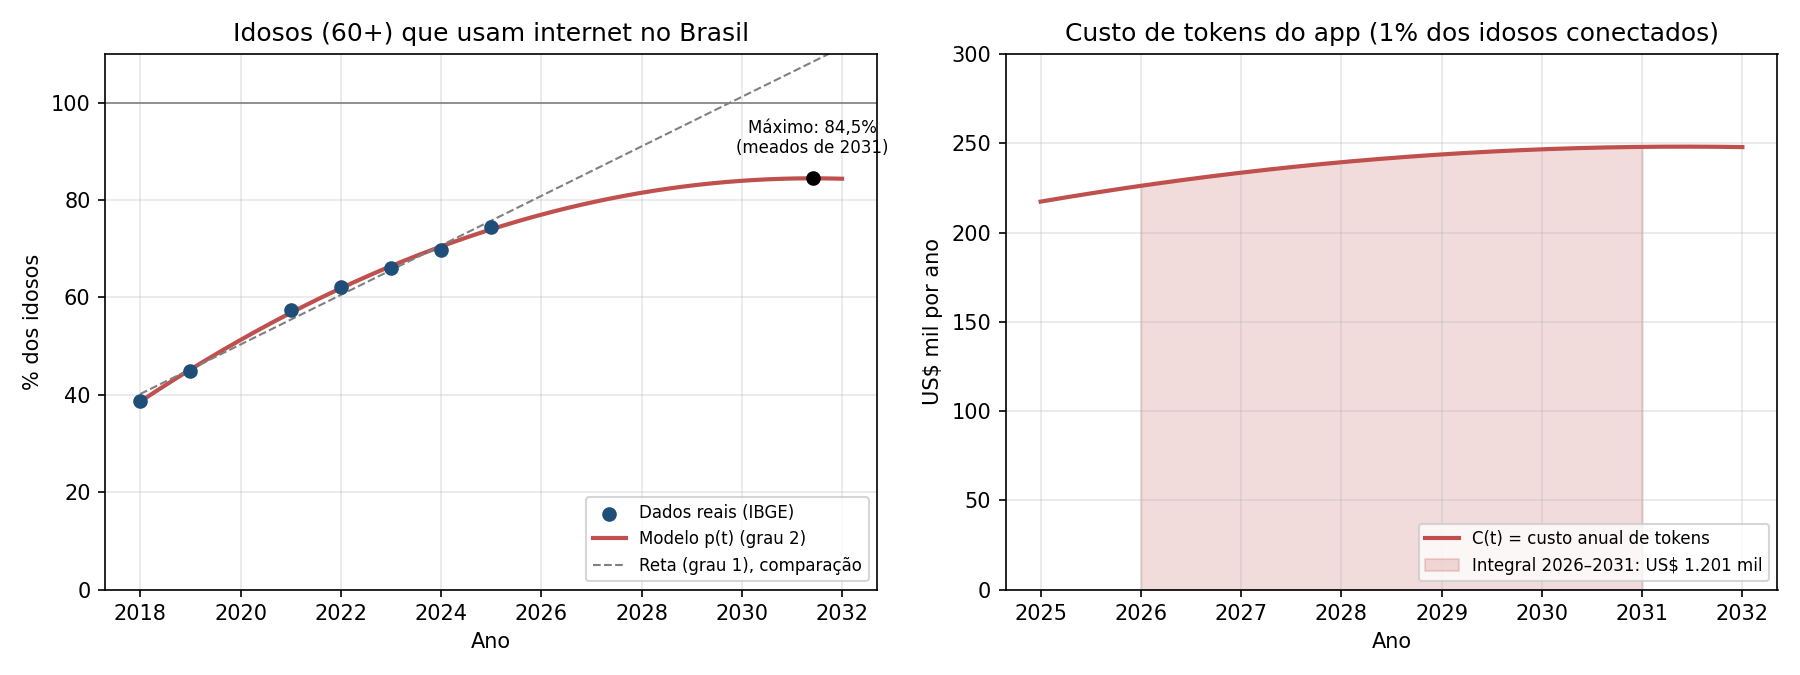
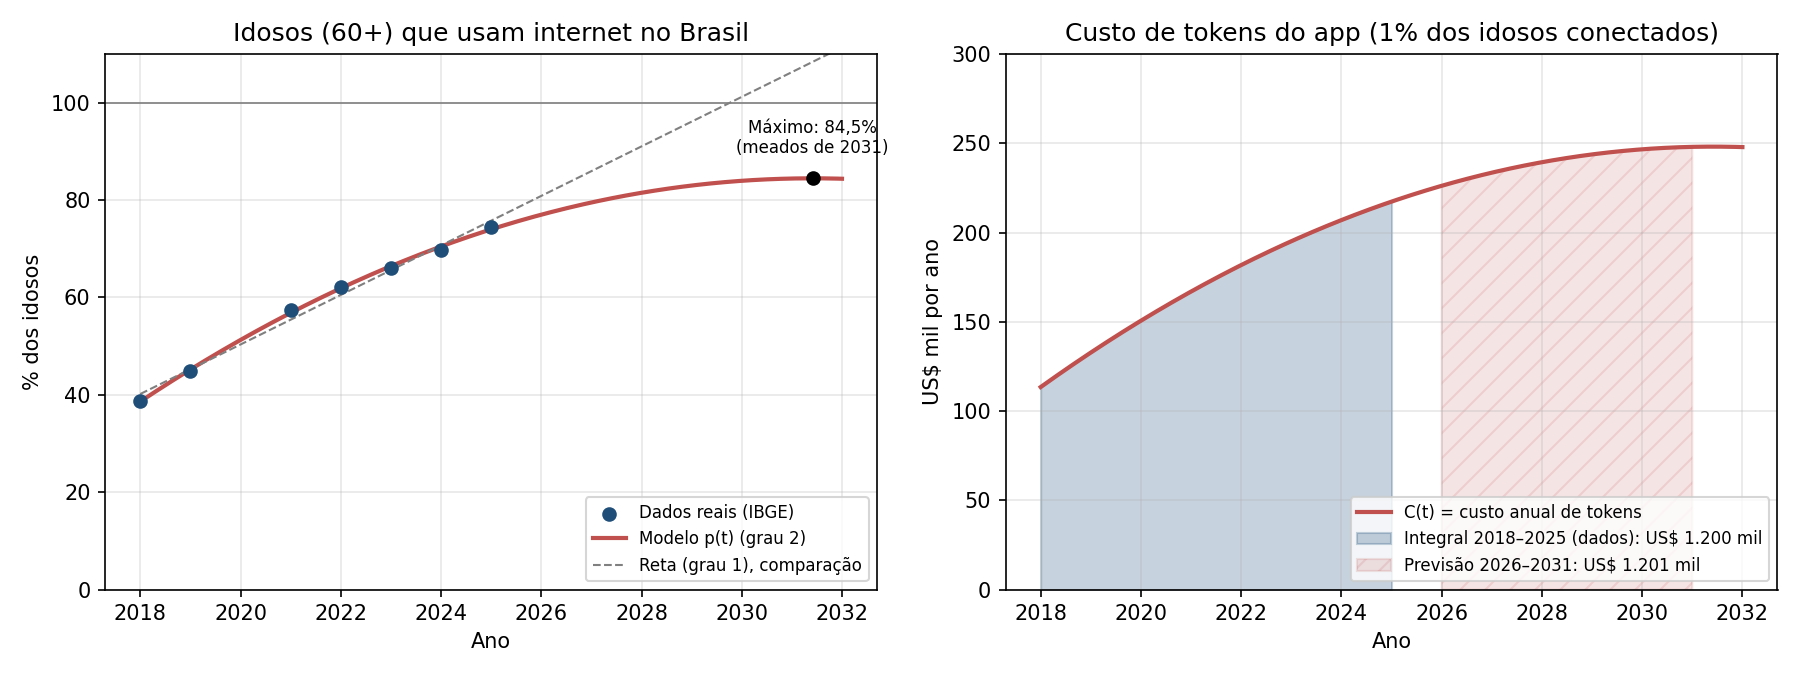
Calcula a integral no intervalo dos dados (2018-2025)
O enunciado pede a integral no intervalo dos dados. A integral principal
passa a ser de t=1 a t=8; a de 2026-2031 fica como previsao extra.
Atualiza grafico, README e comandos do GeoGebra.

Changed region(s): [[0.56, 0.1867, 0.9956, 0.8711], [0.84, 0.9022, 0.8711, 0.9333], [0.56, 0.9022, 0.5911, 0.9333]]

diff --git a/ajuste_idosos_internet.py b/ajuste_idosos_internet.py
@@ -101,14 +101,19 @@ print("  -> o modelo preve que o uso entre idosos para de crescer em ~84%.")
 print("     Depois disso a parabola desce, o que nao e realista: o modelo vale ate ~2031.\n")
 
 k = POP_60_MAIS * FATIA_MERCADO * custo_usuario_ano / 100
-t_ini, t_fim = 9, 14
+t_ini, t_fim = 1, 8
 custo_acumulado = k * (P(t_fim) - P(t_ini))
+t_ini_prev, t_fim_prev = 9, 14
+custo_previsto = k * (P(t_fim_prev) - P(t_ini_prev))
 print("Item 3 - Integral (custo acumulado de tokens):")
 print(f"  custo por idoso: US$ {fmt(custo_usuario_dia, 5)}/dia = US$ {fmt(custo_usuario_ano)}/ano")
 print(f"  C(t) = {fmt(k)} * p(t)   [US$/ano]")
-print(f"  usuarios do app em 2026: {fmt(POP_60_MAIS * FATIA_MERCADO * p(9) / 100, 0)}")
 print(f"  integral de C(t) de t={t_ini} ({ano(t_ini)}) a t={t_fim} ({ano(t_fim)}) = "
-      f"US$ {fmt(custo_acumulado)}\n")
+      f"US$ {fmt(custo_acumulado)}")
+print("  -> custo de tokens que o app teria tido se atendesse 1% dos idosos conectados")
+print("     durante todo o periodo dos dados.")
+print(f"  previsao extra: integral de t={t_ini_prev} ({ano(t_ini_prev)}) a t={t_fim_prev} "
+      f"({ano(t_fim_prev)}) = US$ {fmt(custo_previsto)}\n")
 
 print("Item 4 - Limite do custo medio por usuario:")
 print("  CM(N) = (CUSTO_FIXO + c*N) / N = CUSTO_FIXO/N + c")
@@ -138,10 +143,12 @@ ax1.grid(alpha=0.3)
 ax1.legend(fontsize=8, loc="lower right")
 
 tc = np.linspace(t_ini, t_fim, 200)
-tp = np.linspace(8, 15, 200)
-ax2.plot(tp + 2017, k * p(tp) / 1000, color="#c0504d", lw=2, label="C(t) = custo anual de tokens")
-ax2.fill_between(tc + 2017, k * p(tc) / 1000, alpha=0.2, color="#c0504d",
-                 label=f"Integral {ano(t_ini)}–{ano(t_fim)}: US$ {fmt(custo_acumulado / 1000, 0)} mil")
+tf = np.linspace(t_ini_prev, t_fim_prev, 200)
+ax2.plot(ts + 2017, k * p(ts) / 1000, color="#c0504d", lw=2, label="C(t) = custo anual de tokens")
+ax2.fill_between(tc + 2017, k * p(tc) / 1000, alpha=0.25, color="#1f4e79",
+                 label=f"Integral {ano(t_ini)}–{ano(t_fim)} (dados): US$ {fmt(custo_acumulado / 1000, 0)} mil")
+ax2.fill_between(tf + 2017, k * p(tf) / 1000, alpha=0.15, color="#c0504d", hatch="//",
+                 label=f"Previsão {ano(t_ini_prev)}–{ano(t_fim_prev)}: US$ {fmt(custo_previsto / 1000, 0)} mil")
 ax2.set_title("Custo de tokens do app (1% dos idosos conectados)")
 ax2.set_xlabel("Ano")
 ax2.set_ylabel("US$ mil por ano")

diff --git a/geogebra_comandos.md b/geogebra_comandos.md
@@ -38,7 +38,8 @@ p'(1)                                  # 2018: ≈ 6.84 p.p./ano
 p'(5)                                  # 2022: ≈ 4.80 p.p./ano
 p'(8)                                  # 2025: ≈ 3.27 p.p./ano
 Extremum(p, 1, 20)                     # máximo: (14.41, 84.47) -> meados de 2031
-Integral(2937.37 p(x), 9, 14)          # custo acumulado 2026-2031: ≈ US$ 1.200.981
+Integral(2937.37 p(x), 1, 8)           # custo acumulado 2018-2025 (intervalo dos dados): ≈ US$ 1.200.413
+Integral(2937.37 p(x), 9, 14)          # previsão extra 2026-2031: ≈ US$ 1.200.981
 Limit((6000 + 0.8614x) / x, ∞)         # custo médio por usuário: 0.8614
 ```
 

diff --git a/README.md b/README.md
@@ -28,7 +28,7 @@ As fontes de cada ano estão em [geogebra_comandos.md](geogebra_comandos.md).
 |---|---|
 | Derivada | crescimento de 6,84 p.p./ano (2018), 4,80 (2022) e 3,27 (2025) |
 | Ponto crítico | máximo de 84,5% em meados de 2031 |
-| Integral | custo acumulado de tokens 2026–2031 ≈ US$ 1,2 milhão |
+| Integral | custo acumulado de tokens no período dos dados (2018–2025) ≈ US$ 1,2 milhão; previsão 2026–2031 também ≈ US$ 1,2 milhão |
 | Limite | custo médio por usuário tende a US$ 0,86/ano |
 
 ## Estrutura
